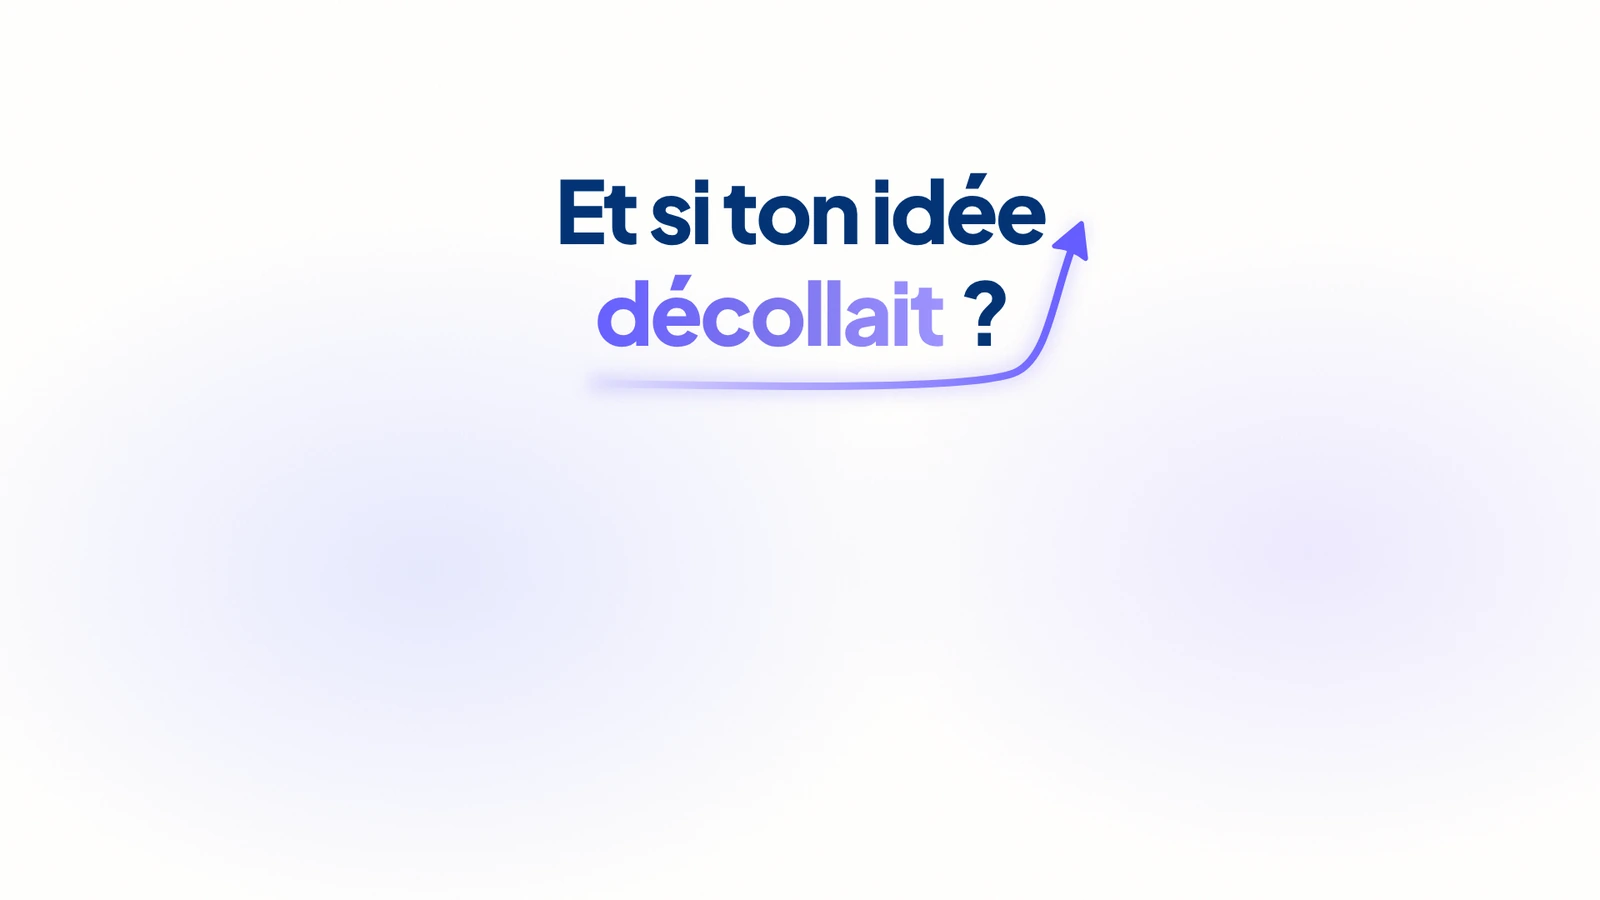
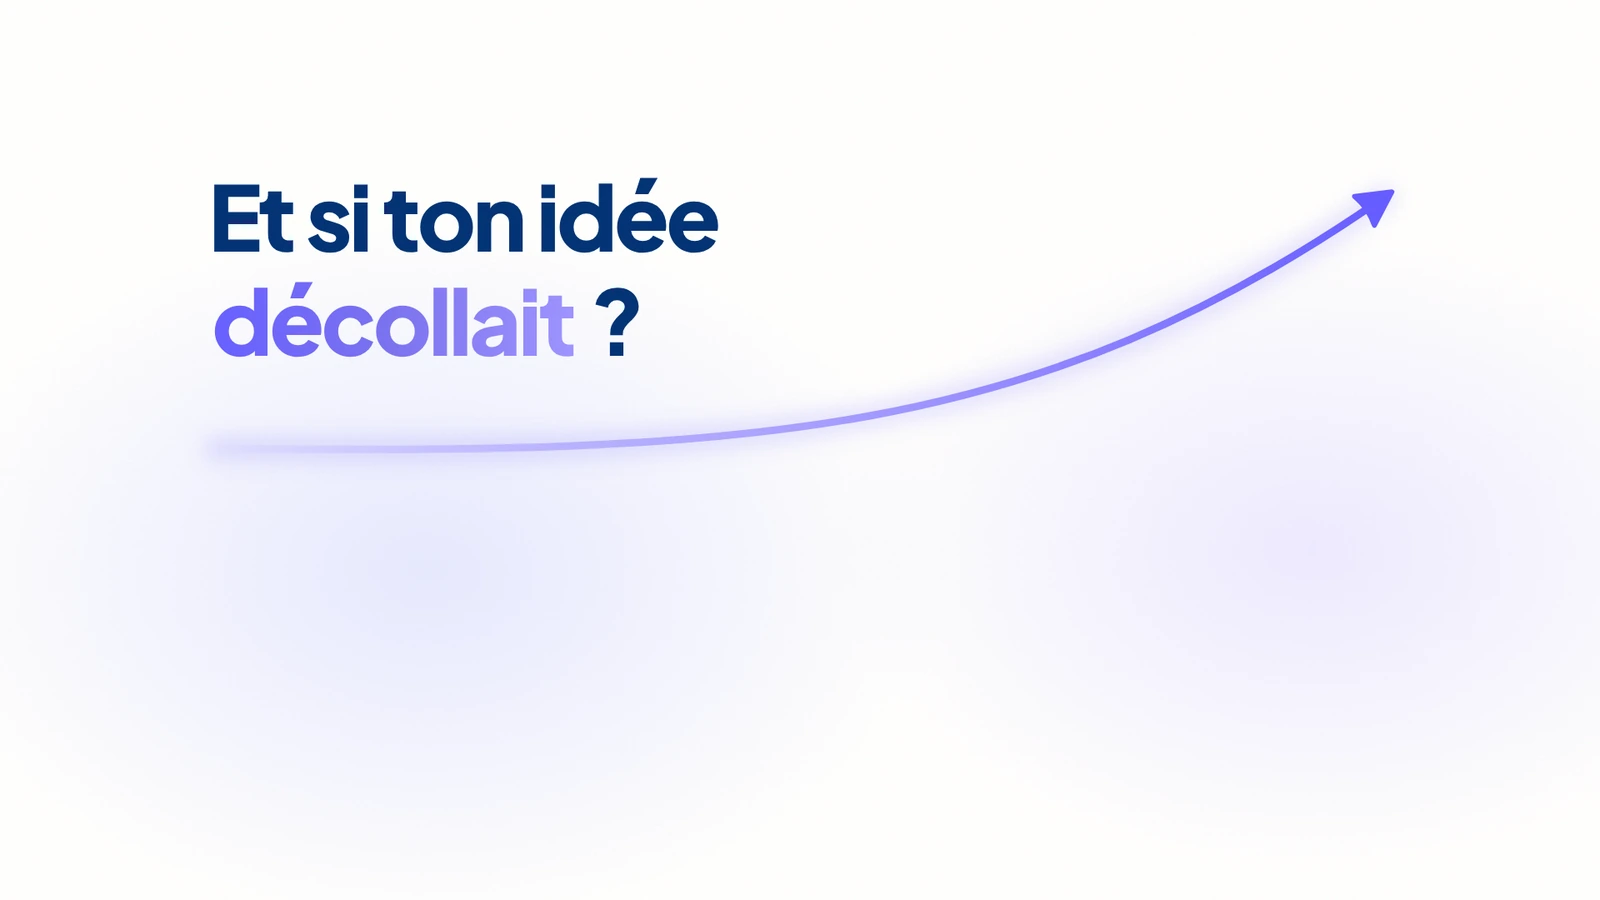
Affiche de la vidéo : texte à gauche, courbe fine qui décolle en flèche vers le haut à droite
La version 1 choisie par Noé, « en plus beau » : la phrase calée à gauche, une seule courbe en dégradé
qui part sous le texte et monte jusqu'à une flèche en haut à droite. Tout reste dans le haut de
l'image, visible dès l'arrivée.

Claude-Session: https://claude.ai/code/session_01P65FVpXqpWWQ7RQy5iUe2y

diff --git a/documentation/architecture/landing-page.md b/documentation/architecture/landing-page.md
@@ -124,13 +124,14 @@ Le lecteur reprend celui d'Ikovaline (ikovaline.com), à la demande de Noé :
 
 - Tant que la vidéo n'a rien montré, une affiche est posée dessus, comme chez Ikovaline (une image du
   film, peu d'éléments) : le fond blanc du film, « Et si ton idée décollait ? » (« décollait » dans le
-  dégradé violet, comme « décoller » dans le film) et un trait qui souligne « décollait » puis décolle en
-  flèche vers le haut à droite. Tout tient dans le haut de l'image, centré : sur ordinateur, on ne voit
-  que le haut de la vidéo à l'arrivée, et en descendant pour voir le reste on la lance (« mets-toi à la
-  place de l'utilisateur », Noé). Noé a choisi le blanc parmi quatre propositions (violet ou blanc,
-  « En 2026, un vrai pari. » avec les dés, ou cette phrase), puis cette flèche parmi quatre autres
-  (courbe, avion en papier, texte seul, pastille) ; refusée avant : une courbe de graphique en bas à
-  gauche avec un aplat (« pas belle »). Refusés avant : l'image « 8 apps sur 10 » (« ça donne pas envie
+  dégradé violet, comme « décoller » dans le film), calée à gauche, et une courbe fine qui part sous le
+  texte et décolle en flèche vers le haut à droite. Tout tient dans le haut de l'image : sur ordinateur,
+  on ne voit que le haut de la vidéo à l'arrivée, et en descendant pour voir le reste on la lance
+  (« mets-toi à la place de l'utilisateur », Noé). Noé a choisi le blanc parmi quatre propositions
+  (violet ou blanc, « En 2026, un vrai pari. » avec les dés, ou cette phrase), puis la courbe parmi
+  quatre autres (courbe, avion en papier, texte seul, pastille), « en plus beau », texte à gauche.
+  Refusés avant : une courbe de graphique en bas à gauche avec un aplat (« pas belle »), un trait sous
+  « décollait » avec le texte centré. Refusés avant : l'image « 8 apps sur 10 » (« ça donne pas envie
   de regarder »), une couverture avec sa photo et « Regarde la vidéo » (« pas ma tête »), le titre du hero
   répété. Source de l'image : `affiche.html` (variante F) dans le dossier de rendu du film.
 - Le film se charge en fond 0,7 s après l'affichage, mais ne démarre que quand on fait défiler la page
